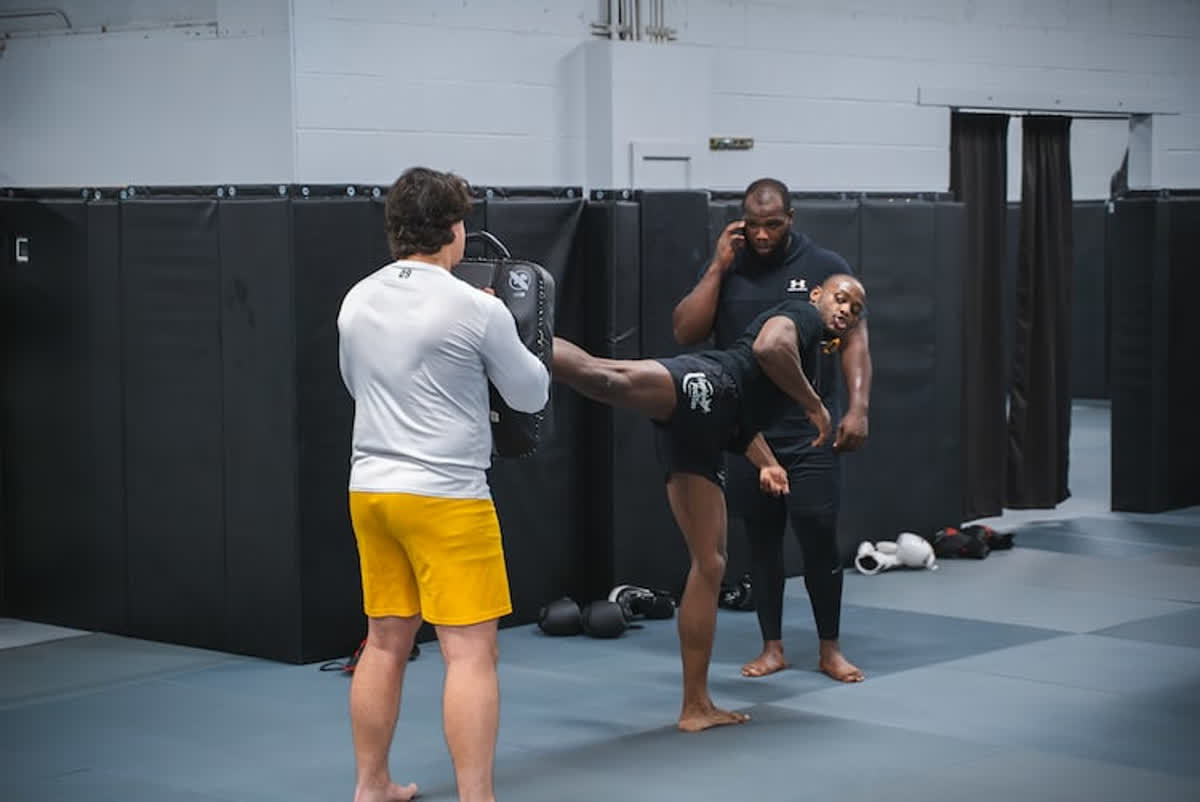
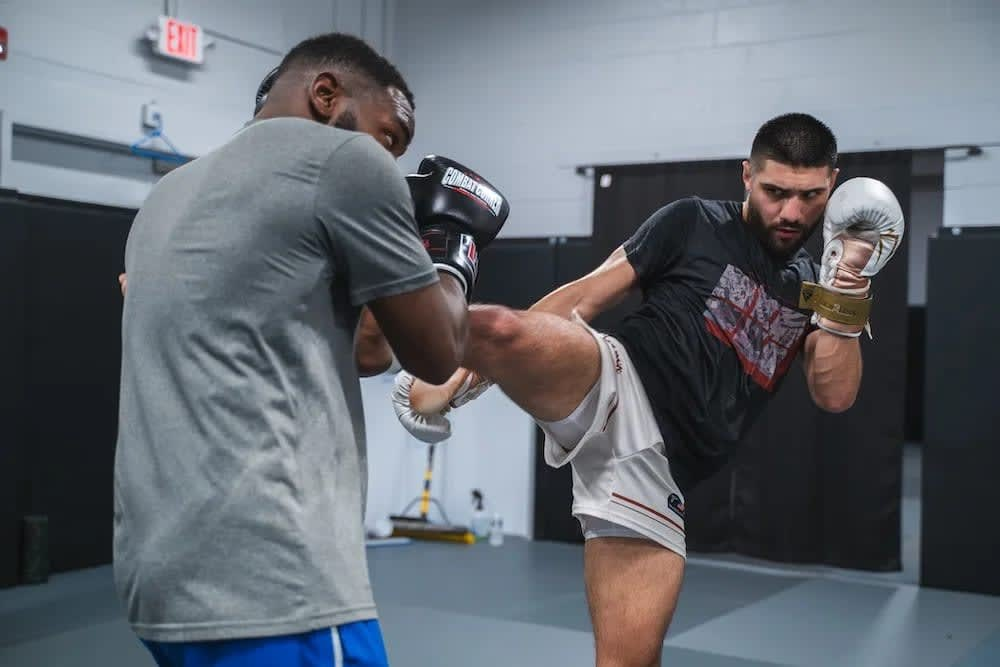
nashvillemma: new hero photo for Muay Thai, fighter right, no third person
Ben asked to centre the fighter on the right and lose the man on the phone.
Cropping could not do it: in the old photo the two overlap, the phone is
directly behind the kicker's head, so any crop that keeps one keeps the
other. Removing him from the image would mean painting in pixels that were
never there.

The harvest already had a better frame. muaythai-main-263040png-264045.png
is a clean two-person high kick into pads, no third person, and the fighter
is already on the right where the layout wants him. It was unused, so
nothing else changes. Re-encoded with PIL rather than ffmpeg, which is not
installed here, at 50.3 KB against the 52 KB canvas budget.

Framing differs by width because the aspect ratios cross over. At 1440 the
photo covers by width, so object-position X does nothing and only Y matters.
At 390 it covers by height and crops 420px horizontally, which landed on the
middle of the frame and cut the fighter's head off, so phones get
object-position 80%. Desktop is unaffected for the reason above.

Contrast re-checked on the new photo: headline 15.76:1 at 1440 and 9.67:1 at
390.

One limit worth knowing: the source is 1000x667, so it is upscaled in a
1440px hero and will be a little soft. That is the photo, not the crop, and
it goes away when the new photography lands.

Claude-Session: https://claude.ai/code/session_01Pi5X3hdHYXWAQbgXrsCCjZ

diff --git a/projects/nashvillemma/site/programs/muay-thai.html b/projects/nashvillemma/site/programs/muay-thai.html
@@ -53,7 +53,7 @@
 
 <div class="bleedhero" style="position: relative; overflow: hidden; overflow: clip; overflow: clip; min-height: 660px; isolation: isolate">
   <div aria-hidden="true" style="position: absolute; inset: 0; z-index: 1; -webkit-mask-image: linear-gradient(to bottom, #000 0%, #000 54%, rgba(0,0,0,0.35) 82%, rgba(0,0,0,0) 100%); mask-image: linear-gradient(to bottom, #000 0%, #000 54%, rgba(0,0,0,0.35) 82%, rgba(0,0,0,0) 100%)">
-    <img src="../assets/prog-muay-thai-hero.jpg" alt="Muay Thai Classes in Nashville" style="position: absolute; inset: 0; width: 100%; height: 100%; object-fit: cover; object-position: 68% 38%">
+    <img src="../assets/prog-muay-thai-hero.jpg" alt="Muay Thai Classes in Nashville" style="position: absolute; inset: 0; width: 100%; height: 100%; object-fit: cover; object-position: 50% 26%">
     <div style="position: absolute; inset: 0; background: rgba(5,5,5,0.30)"></div>
     <div class="bleedveil" style="position: absolute; inset: 0; background: linear-gradient(to right, rgba(5,5,5,0.97) 0%, rgba(5,5,5,0.95) 32%, rgba(5,5,5,0.70) 55%, rgba(5,5,5,0.26) 76%, rgba(5,5,5,0.04) 100%)"></div>
   </div>

diff --git a/projects/nashvillemma/design-pages/Program-muay-thai.dc.html b/projects/nashvillemma/design-pages/Program-muay-thai.dc.html
@@ -116,7 +116,7 @@
 
 <div class="bleedhero" style="position: relative; overflow: hidden; overflow: clip; min-height: 660px; isolation: isolate">
   <div aria-hidden="true" style="position: absolute; inset: 0; z-index: 1; -webkit-mask-image: linear-gradient(to bottom, #000 0%, #000 54%, rgba(0,0,0,0.35) 82%, rgba(0,0,0,0) 100%); mask-image: linear-gradient(to bottom, #000 0%, #000 54%, rgba(0,0,0,0.35) 82%, rgba(0,0,0,0) 100%)">
-    <img src="prog-muay-thai-hero.jpg" alt="Muay Thai Classes in Nashville" style="position: absolute; inset: 0; width: 100%; height: 100%; object-fit: cover; object-position: 68% 38%">
+    <img src="prog-muay-thai-hero.jpg" alt="Muay Thai Classes in Nashville" style="position: absolute; inset: 0; width: 100%; height: 100%; object-fit: cover; object-position: 50% 26%">
     <div style="position: absolute; inset: 0; background: rgba(5,5,5,0.30)"></div>
     <div class="bleedveil" style="position: absolute; inset: 0; background: linear-gradient(to right, rgba(5,5,5,0.97) 0%, rgba(5,5,5,0.95) 32%, rgba(5,5,5,0.70) 55%, rgba(5,5,5,0.26) 76%, rgba(5,5,5,0.04) 100%)"></div>
   </div>

diff --git a/projects/nashvillemma/site/assets/site.css b/projects/nashvillemma/site/assets/site.css
@@ -121,6 +121,11 @@
      the headline spans the width. Vertical veil instead, dark where the
      type sits. The min-height cap below would otherwise crush it. */
   .bleedhero { min-height: 540px !important; }
+  /* At 1440 the photo covers by width, so object-position X does nothing.
+     At 390 it covers by height and crops 420px horizontally, which lands on
+     the middle of the frame and cuts the fighter's head off. Pushed right to
+     keep him. Desktop is unaffected by this for the reason above. */
+  .bleedhero img { object-position: 80% 22% !important; }
   .bleedhero > div > div.bleedveil {
     background: linear-gradient(to bottom, rgba(5,5,5,0.42) 0%,
       rgba(5,5,5,0.80) 42%, rgba(5,5,5,0.94) 72%, rgba(5,5,5,0.97) 100%) !important;

diff --git a/projects/nashvillemma/data/build_site.py b/projects/nashvillemma/data/build_site.py
@@ -344,6 +344,11 @@ MOBILE_CSS = """
      the headline spans the width. Vertical veil instead, dark where the
      type sits. The min-height cap below would otherwise crush it. */
   .bleedhero { min-height: 540px !important; }
+  /* At 1440 the photo covers by width, so object-position X does nothing.
+     At 390 it covers by height and crops 420px horizontally, which lands on
+     the middle of the frame and cuts the fighter's head off. Pushed right to
+     keep him. Desktop is unaffected by this for the reason above. */
+  .bleedhero img { object-position: 80% 22% !important; }
   .bleedhero > div > div.bleedveil {
     background: linear-gradient(to bottom, rgba(5,5,5,0.42) 0%,
       rgba(5,5,5,0.80) 42%, rgba(5,5,5,0.94) 72%, rgba(5,5,5,0.97) 100%) !important;

diff --git a/projects/nashvillemma/data/build_program_pages.py b/projects/nashvillemma/data/build_program_pages.py
@@ -302,7 +302,7 @@ def render(p):
         out.append('  <div aria-hidden="true" style="position: absolute; inset: 0; z-index: 1; '
                    '-webkit-mask-image: %s; mask-image: %s">' % (mask, mask))
         out.append('    <img src="%s" alt="%s" style="position: absolute; inset: 0; width: 100%%; '
-                   'height: 100%%; object-fit: cover; object-position: 68%% 38%%">'
+                   'height: 100%%; object-fit: cover; object-position: 50%% 26%%">'
                    % (hero_img, esc(title)))
         # Seat the photo back, then carry the headline on a near-solid left.
         # This hero photo has a near-white wall in it, so a veil that looks
